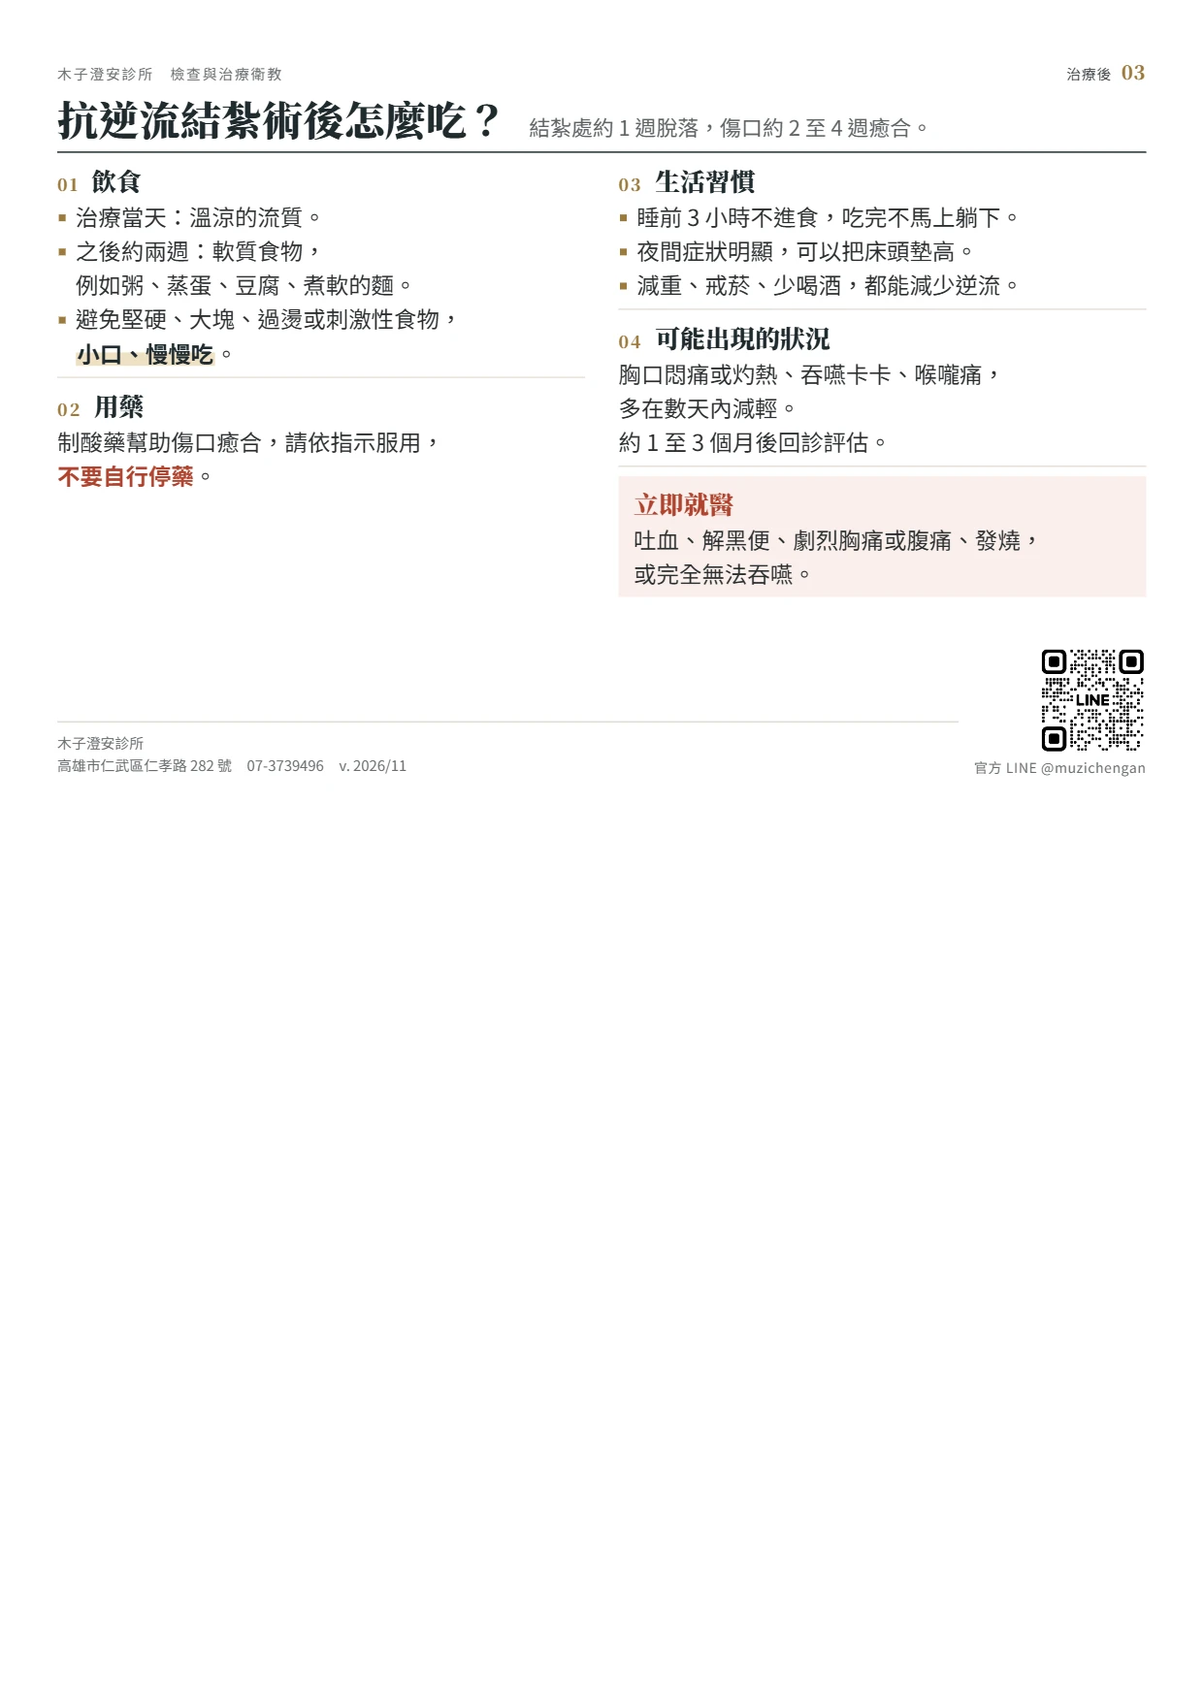
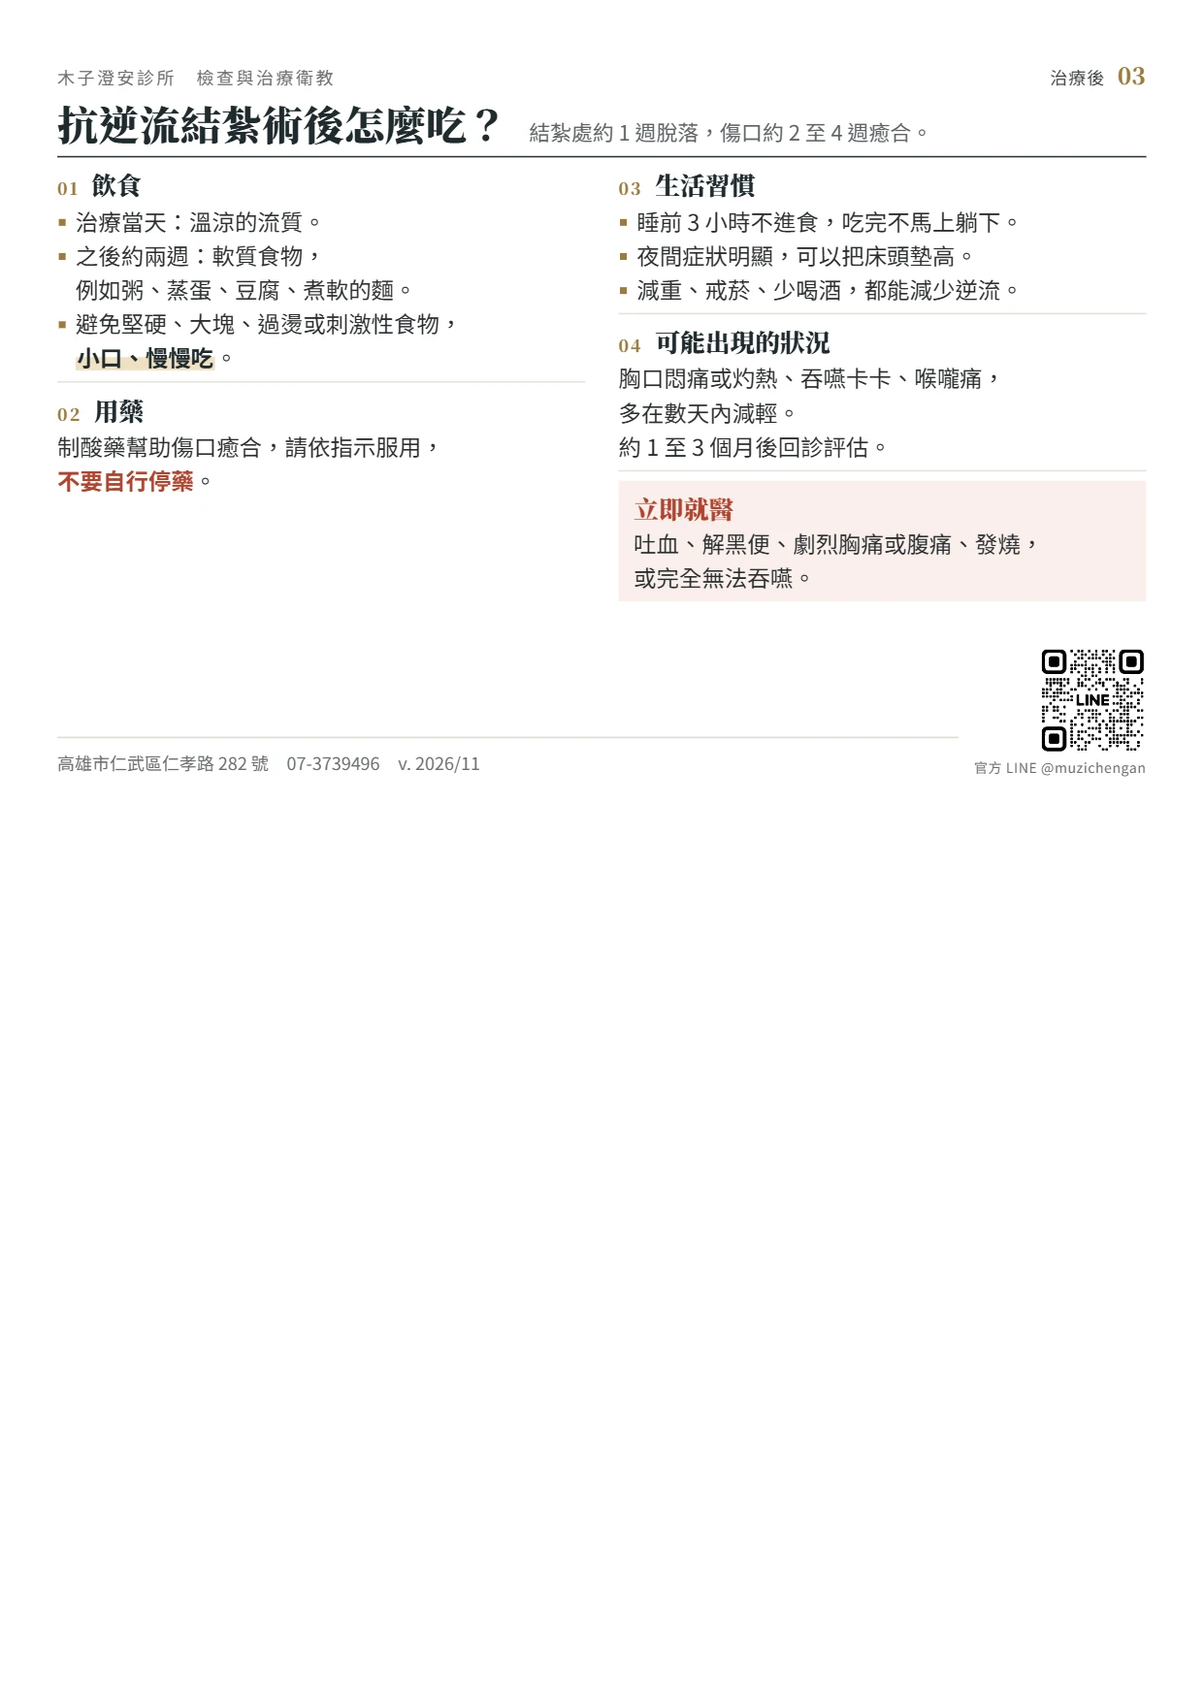
A5 衛教單：頁尾刪掉重複的診所名稱、改成一行，頁首頁尾字級和 A4 一致
- 頁首保留「木子澄安診所　○○衛教」，頁尾只寫地址、電話、版本一行
- 頁首 11.5px、編號 15px、頁尾 11.5px，和 A4 單張（cards.html）相同
- QR code 上方留白 4px 改 1px，右欄空間至少 6px
- 19 張 A5 圖片重新輸出，快取 tools-v78

diff --git a/edu-src/a5.html b/edu-src/a5.html
@@ -16,9 +16,10 @@
 *{box-sizing:border-box; margin:0; padding:0;}
 body{background:#9AA5AA; font-family:'Noto Sans TC',sans-serif; color:var(--body); text-spacing-trim:space-all;}
 .page{width:210mm; height:148.5mm; margin:20px auto; background:#fff; padding:10mm 10mm 13mm; display:flex; flex-direction:column;}
-.top{display:flex; justify-content:space-between; align-items:baseline; font-size:9.5px; letter-spacing:.12em; color:#6A6E70;}
+/* 頁首與頁尾的字級和 A4 單張（cards.html）相同：兩種版面都是 794 px 寬，同樣的 px 印出來一樣大 */
+.top{display:flex; justify-content:space-between; align-items:baseline; font-size:11.5px; letter-spacing:.14em; color:#6A6E70;}
 .top .no{letter-spacing:.06em; color:#3A3F42;}
-.top .no b{font-family:'Noto Serif TC',serif; font-weight:900; color:var(--gold); font-size:12.5px; margin-left:6px;}
+.top .no b{font-family:'Noto Serif TC',serif; font-weight:900; color:var(--gold); font-size:15px; margin-left:8px; letter-spacing:.02em;}
 .head{display:flex; align-items:baseline; gap:14px; margin-top:4px;}
 h1{font-family:'Noto Serif TC',serif; font-weight:900; font-size:27px; line-height:1.3; color:var(--ink); white-space:nowrap;}
 .lead{font-size:14px; color:var(--sub); line-height:1.5;}
@@ -50,12 +51,12 @@ table.tb td{border-bottom:1px solid var(--line); padding:3px 4px; line-height:1.
 table.tb th:last-child, table.tb td:last-child{white-space:nowrap;}
 table.tb td:last-child{font-weight:700; color:var(--ink);}
 .src{font-size:9.5px; color:#7A7E80; margin-top:4px; line-height:1.5;}
-/* 頁尾：左邊地址電話與版本，右下角官方 LINE QR code。
+/* 頁尾：左邊一行地址、電話與版本（診所名稱已在頁首，不重複），右下角官方 LINE QR code。
    QR code 疊在頁尾右側往上突出，頁尾高度只由地址決定，左欄可以多用一些高度；右欄內容不可壓到 QR code（見 fitReport） */
 .foot{margin-top:auto; border-top:1px solid #E0DCD4; padding-top:5px; position:relative;}
-.foot .addr{font-size:9.5px; color:#6A6E70; line-height:1.6;}
-.foot .addr span{margin-left:10px;}
-.qr{position:absolute; right:0; bottom:0; display:flex; flex-direction:column; align-items:flex-end; background:#fff; padding:4px 0 0 10px;}
+.foot .addr{font-size:11.5px; color:#6A6E70; line-height:1.75;}
+.foot .addr span{margin-left:12px;}
+.qr{position:absolute; right:0; bottom:0; display:flex; flex-direction:column; align-items:flex-end; background:#fff; padding:1px 0 0 10px;}
 .qr img{width:19mm; height:19mm; display:block;}
 .qr span{font-size:9px; color:#6A6E70; letter-spacing:.04em; margin-top:1px; white-space:nowrap;}
 .fit-bad{outline:3px solid #C0392B;}
@@ -96,7 +97,7 @@ table.tb td:last-child{font-weight:700; color:var(--ink);}
       <div class="box alert"><div class="t">立即就醫</div><div class="c">吐血、解黑便、劇烈腹痛或發燒，<br>請立即回診或至急診。</div></div>
     </div>
   </div>
-  <div class="foot"><div class="addr">木子澄安診所<br>高雄市仁武區仁孝路 282 號<span>07-3739496</span><span>v. 2026/11</span></div><div class="qr"><img src="../calc/qr.png" alt=""><span>官方 LINE @muzichengan</span></div></div>
+  <div class="foot"><div class="addr">高雄市仁武區仁孝路 282 號<span>07-3739496</span><span>v. 2026/11</span></div><div class="qr"><img src="../calc/qr.png" alt=""><span>官方 LINE @muzichengan</span></div></div>
 </section>
 
 <!-- ───────── 檢查前 02 大腸鏡 ───────── -->
@@ -137,7 +138,7 @@ table.tb td:last-child{font-weight:700; color:var(--ink);}
         </ul></div></div>
     </div>
   </div>
-  <div class="foot"><div class="addr">木子澄安診所<br>高雄市仁武區仁孝路 282 號<span>07-3739496</span><span>v. 2026/11</span></div><div class="qr"><img src="../calc/qr.png" alt=""><span>官方 LINE @muzichengan</span></div></div>
+  <div class="foot"><div class="addr">高雄市仁武區仁孝路 282 號<span>07-3739496</span><span>v. 2026/11</span></div><div class="qr"><img src="../calc/qr.png" alt=""><span>官方 LINE @muzichengan</span></div></div>
 </section>
 
 <!-- ───────── 檢查前 03 腹部超音波 ───────── -->
@@ -167,7 +168,7 @@ table.tb td:last-child{font-weight:700; color:var(--ink);}
         </ul></div></div>
     </div>
   </div>
-  <div class="foot"><div class="addr">木子澄安診所<br>高雄市仁武區仁孝路 282 號<span>07-3739496</span><span>v. 2026/11</span></div><div class="qr"><img src="../calc/qr.png" alt=""><span>官方 LINE @muzichengan</span></div></div>
+  <div class="foot"><div class="addr">高雄市仁武區仁孝路 282 號<span>07-3739496</span><span>v. 2026/11</span></div><div class="qr"><img src="../calc/qr.png" alt=""><span>官方 LINE @muzichengan</span></div></div>
 </section>
 
 <!-- ───────── 檢查後 01 腸胃鏡 ───────── -->
@@ -201,7 +202,7 @@ table.tb td:last-child{font-weight:700; color:var(--ink);}
       <div class="box alert"><div class="t">立即就醫</div><div class="c">吐血、解黑便或大量血便、腹痛加劇、<br>發燒、頭暈心悸，請立即回診或至急診。</div></div>
     </div>
   </div>
-  <div class="foot"><div class="addr">木子澄安診所<br>高雄市仁武區仁孝路 282 號<span>07-3739496</span><span>v. 2026/11</span></div><div class="qr"><img src="../calc/qr.png" alt=""><span>官方 LINE @muzichengan</span></div></div>
+  <div class="foot"><div class="addr">高雄市仁武區仁孝路 282 號<span>07-3739496</span><span>v. 2026/11</span></div><div class="qr"><img src="../calc/qr.png" alt=""><span>官方 LINE @muzichengan</span></div></div>
 </section>
 
 <!-- ───────── 治療後 01 瘜肉切除 ───────── -->
@@ -234,7 +235,7 @@ table.tb td:last-child{font-weight:700; color:var(--ink);}
       <p class="src">以清腸乾淨、完整切除為前提。資料來源：國健署《大腸癌篩檢指引》2021。</p>
     </div>
   </div>
-  <div class="foot"><div class="addr">木子澄安診所<br>高雄市仁武區仁孝路 282 號<span>07-3739496</span><span>v. 2026/11</span></div><div class="qr"><img src="../calc/qr.png" alt=""><span>官方 LINE @muzichengan</span></div></div>
+  <div class="foot"><div class="addr">高雄市仁武區仁孝路 282 號<span>07-3739496</span><span>v. 2026/11</span></div><div class="qr"><img src="../calc/qr.png" alt=""><span>官方 LINE @muzichengan</span></div></div>
 </section>
 
 <!-- ───────── 治療後 02 冷凝刀 ───────── -->
@@ -268,7 +269,7 @@ table.tb td:last-child{font-weight:700; color:var(--ink);}
       <div class="box alert"><div class="t">立即就醫</div><div class="c">大量出血、劇烈疼痛、發燒，或無法排尿，<br>請立即回診或至急診。</div></div>
     </div>
   </div>
-  <div class="foot"><div class="addr">木子澄安診所<br>高雄市仁武區仁孝路 282 號<span>07-3739496</span><span>v. 2026/11</span></div><div class="qr"><img src="../calc/qr.png" alt=""><span>官方 LINE @muzichengan</span></div></div>
+  <div class="foot"><div class="addr">高雄市仁武區仁孝路 282 號<span>07-3739496</span><span>v. 2026/11</span></div><div class="qr"><img src="../calc/qr.png" alt=""><span>官方 LINE @muzichengan</span></div></div>
 </section>
 
 <!-- ───────── 治療後 03 抗逆流結紮 ───────── -->
@@ -295,7 +296,7 @@ table.tb td:last-child{font-weight:700; color:var(--ink);}
       <div class="box alert"><div class="t">立即就醫</div><div class="c">吐血、解黑便、劇烈胸痛或腹痛、發燒，<br>或完全無法吞嚥。</div></div>
     </div>
   </div>
-  <div class="foot"><div class="addr">木子澄安診所<br>高雄市仁武區仁孝路 282 號<span>07-3739496</span><span>v. 2026/11</span></div><div class="qr"><img src="../calc/qr.png" alt=""><span>官方 LINE @muzichengan</span></div></div>
+  <div class="foot"><div class="addr">高雄市仁武區仁孝路 282 號<span>07-3739496</span><span>v. 2026/11</span></div><div class="qr"><img src="../calc/qr.png" alt=""><span>官方 LINE @muzichengan</span></div></div>
 </section>
 
 <!-- ───────── 用藥 01 幽門桿菌 ───────── -->
@@ -330,7 +331,7 @@ table.tb td:last-child{font-weight:700; color:var(--ink);}
       <p class="src">資料來源：Maastricht VI／Florence 共識，Gut 2022；Taipei Global Consensus，Gut 2020。</p>
     </div>
   </div>
-  <div class="foot"><div class="addr">木子澄安診所<br>高雄市仁武區仁孝路 282 號<span>07-3739496</span><span>v. 2026/11</span></div><div class="qr"><img src="../calc/qr.png" alt=""><span>官方 LINE @muzichengan</span></div></div>
+  <div class="foot"><div class="addr">高雄市仁武區仁孝路 282 號<span>07-3739496</span><span>v. 2026/11</span></div><div class="qr"><img src="../calc/qr.png" alt=""><span>官方 LINE @muzichengan</span></div></div>
 </section>
 
 <!-- ═════════ 疾病衛教（2026/11 新增）：版面與上面相同，頁首左邊改「疾病衛教」 ═════════ -->
@@ -361,7 +362,7 @@ table.tb td:last-child{font-weight:700; color:var(--ink);}
       <div class="box alert"><div class="t">立即就醫</div><div class="c">腹痛超過 6 小時、發燒畏寒、<br>皮膚或眼白變黃、茶色尿、灰白便。</div></div>
     </div>
   </div>
-  <div class="foot"><div class="addr">木子澄安診所<br>高雄市仁武區仁孝路 282 號<span>07-3739496</span><span>v. 2026/11</span></div><div class="qr"><img src="../calc/qr.png" alt=""><span>官方 LINE @muzichengan</span></div></div>
+  <div class="foot"><div class="addr">高雄市仁武區仁孝路 282 號<span>07-3739496</span><span>v. 2026/11</span></div><div class="qr"><img src="../calc/qr.png" alt=""><span>官方 LINE @muzichengan</span></div></div>
 </section>
 
 <!-- ───────── 肝膽 02 膽囊瘜肉 ───────── -->
@@ -395,7 +396,7 @@ table.tb td:last-child{font-weight:700; color:var(--ink);}
       <div class="box"><div class="t">追蹤怎麼做</div><div class="c">6 個月、1 年、2 年各做一次超音波；<br>長到 10 mm 建議手術，2 年沒變化可停止。</div></div>
     </div>
   </div>
-  <div class="foot"><div class="addr">木子澄安診所<br>高雄市仁武區仁孝路 282 號<span>07-3739496</span><span>v. 2026/11</span></div><div class="qr"><img src="../calc/qr.png" alt=""><span>官方 LINE @muzichengan</span></div></div>
+  <div class="foot"><div class="addr">高雄市仁武區仁孝路 282 號<span>07-3739496</span><span>v. 2026/11</span></div><div class="qr"><img src="../calc/qr.png" alt=""><span>官方 LINE @muzichengan</span></div></div>
 </section>
 
 <!-- ───────── 肝膽 03 脂肪肝 ───────── -->
@@ -426,7 +427,7 @@ table.tb td:last-child{font-weight:700; color:var(--ink);}
       <p class="src">資料來源：EASL、EASD、EASO MASLD 臨床指引，J Hepatol 2024。</p>
     </div>
   </div>
-  <div class="foot"><div class="addr">木子澄安診所<br>高雄市仁武區仁孝路 282 號<span>07-3739496</span><span>v. 2026/11</span></div><div class="qr"><img src="../calc/qr.png" alt=""><span>官方 LINE @muzichengan</span></div></div>
+  <div class="foot"><div class="addr">高雄市仁武區仁孝路 282 號<span>07-3739496</span><span>v. 2026/11</span></div><div class="qr"><img src="../calc/qr.png" alt=""><span>官方 LINE @muzichengan</span></div></div>
 </section>
 
 <!-- ───────── 腸胃 01 胃食道逆流 ───────── -->
@@ -458,7 +459,7 @@ table.tb td:last-child{font-weight:700; color:var(--ink);}
       <div class="box alert"><div class="t">立即就醫</div><div class="c">吐血、解黑便；<br>胸痛合併冒冷汗或喘，先排除心臟問題。</div></div>
     </div>
   </div>
-  <div class="foot"><div class="addr">木子澄安診所<br>高雄市仁武區仁孝路 282 號<span>07-3739496</span><span>v. 2026/11</span></div><div class="qr"><img src="../calc/qr.png" alt=""><span>官方 LINE @muzichengan</span></div></div>
+  <div class="foot"><div class="addr">高雄市仁武區仁孝路 282 號<span>07-3739496</span><span>v. 2026/11</span></div><div class="qr"><img src="../calc/qr.png" alt=""><span>官方 LINE @muzichengan</span></div></div>
 </section>
 
 <!-- ───────── 腸胃 02 急性腸胃炎 ───────── -->
@@ -490,7 +491,7 @@ table.tb td:last-child{font-weight:700; color:var(--ink);}
       <p class="src">資料來源：衛生福利部疾病管制署諾羅病毒防治。</p>
     </div>
   </div>
-  <div class="foot"><div class="addr">木子澄安診所<br>高雄市仁武區仁孝路 282 號<span>07-3739496</span><span>v. 2026/11</span></div><div class="qr"><img src="../calc/qr.png" alt=""><span>官方 LINE @muzichengan</span></div></div>
+  <div class="foot"><div class="addr">高雄市仁武區仁孝路 282 號<span>07-3739496</span><span>v. 2026/11</span></div><div class="qr"><img src="../calc/qr.png" alt=""><span>官方 LINE @muzichengan</span></div></div>
 </section>
 
 <!-- ───────── 腸胃 03 痔瘡 ───────── -->
@@ -523,7 +524,7 @@ table.tb td:last-child{font-weight:700; color:var(--ink);}
       <div class="box alert"><div class="t">立即就醫</div><div class="c">大量出血或頭暈；<br>肛門腫硬劇痛、發燒。</div></div>
     </div>
   </div>
-  <div class="foot"><div class="addr">木子澄安診所<br>高雄市仁武區仁孝路 282 號<span>07-3739496</span><span>v. 2026/11</span></div><div class="qr"><img src="../calc/qr.png" alt=""><span>官方 LINE @muzichengan</span></div></div>
+  <div class="foot"><div class="addr">高雄市仁武區仁孝路 282 號<span>07-3739496</span><span>v. 2026/11</span></div><div class="qr"><img src="../calc/qr.png" alt=""><span>官方 LINE @muzichengan</span></div></div>
 </section>
 
 <!-- ───────── 腎臟 01 腎結石 ───────── -->
@@ -557,7 +558,7 @@ table.tb td:last-child{font-weight:700; color:var(--ink);}
       <p class="src">資料來源：EAU 尿路結石指引 2024。</p>
     </div>
   </div>
-  <div class="foot"><div class="addr">木子澄安診所<br>高雄市仁武區仁孝路 282 號<span>07-3739496</span><span>v. 2026/11</span></div><div class="qr"><img src="../calc/qr.png" alt=""><span>官方 LINE @muzichengan</span></div></div>
+  <div class="foot"><div class="addr">高雄市仁武區仁孝路 282 號<span>07-3739496</span><span>v. 2026/11</span></div><div class="qr"><img src="../calc/qr.png" alt=""><span>官方 LINE @muzichengan</span></div></div>
 </section>
 
 <!-- ───────── 腎臟 02 腎水腫 ───────── -->
@@ -589,7 +590,7 @@ table.tb td:last-child{font-weight:700; color:var(--ink);}
       <div class="box alert"><div class="t">立即就醫</div><div class="c">發燒畏寒、腰痛加劇、<br>尿量明顯減少或解不出尿。</div></div>
     </div>
   </div>
-  <div class="foot"><div class="addr">木子澄安診所<br>高雄市仁武區仁孝路 282 號<span>07-3739496</span><span>v. 2026/11</span></div><div class="qr"><img src="../calc/qr.png" alt=""><span>官方 LINE @muzichengan</span></div></div>
+  <div class="foot"><div class="addr">高雄市仁武區仁孝路 282 號<span>07-3739496</span><span>v. 2026/11</span></div><div class="qr"><img src="../calc/qr.png" alt=""><span>官方 LINE @muzichengan</span></div></div>
 </section>
 
 <!-- ───────── 慢性病 01 高血壓 ───────── -->
@@ -623,7 +624,7 @@ table.tb td:last-child{font-weight:700; color:var(--ink);}
       <div class="box alert"><div class="t">立即就醫</div><div class="c">血壓 180/120 以上，合併胸痛、喘、<br>劇烈頭痛、單側無力或說話不清。</div></div>
     </div>
   </div>
-  <div class="foot"><div class="addr">木子澄安診所<br>高雄市仁武區仁孝路 282 號<span>07-3739496</span><span>v. 2026/11</span></div><div class="qr"><img src="../calc/qr.png" alt=""><span>官方 LINE @muzichengan</span></div></div>
+  <div class="foot"><div class="addr">高雄市仁武區仁孝路 282 號<span>07-3739496</span><span>v. 2026/11</span></div><div class="qr"><img src="../calc/qr.png" alt=""><span>官方 LINE @muzichengan</span></div></div>
 </section>
 
 <!-- ───────── 慢性病 02 糖尿病前期與糖尿病 ───────── -->
@@ -660,7 +661,7 @@ table.tb td:last-child{font-weight:700; color:var(--ink);}
       <div class="box alert"><div class="t">立即就醫</div><div class="c">意識不清、血糖持續 300 以上，<br>或口渴多尿合併嘔吐、呼吸急促。</div></div>
     </div>
   </div>
-  <div class="foot"><div class="addr">木子澄安診所<br>高雄市仁武區仁孝路 282 號<span>07-3739496</span><span>v. 2026/11</span></div><div class="qr"><img src="../calc/qr.png" alt=""><span>官方 LINE @muzichengan</span></div></div>
+  <div class="foot"><div class="addr">高雄市仁武區仁孝路 282 號<span>07-3739496</span><span>v. 2026/11</span></div><div class="qr"><img src="../calc/qr.png" alt=""><span>官方 LINE @muzichengan</span></div></div>
 </section>
 
 <!-- ───────── 慢性病 03 血脂 ───────── -->
@@ -695,7 +696,7 @@ table.tb td:last-child{font-weight:700; color:var(--ink);}
       <div class="box alert"><div class="t">立即就醫</div><div class="c">上腹劇痛延伸到背部，合併嘔吐。</div></div>
     </div>
   </div>
-  <div class="foot"><div class="addr">木子澄安診所<br>高雄市仁武區仁孝路 282 號<span>07-3739496</span><span>v. 2026/11</span></div><div class="qr"><img src="../calc/qr.png" alt=""><span>官方 LINE @muzichengan</span></div></div>
+  <div class="foot"><div class="addr">高雄市仁武區仁孝路 282 號<span>07-3739496</span><span>v. 2026/11</span></div><div class="qr"><img src="../calc/qr.png" alt=""><span>官方 LINE @muzichengan</span></div></div>
 </section>
 
 <script>

diff --git a/revision.js b/revision.js
@@ -12,6 +12,5 @@ const REVISION = {
 /* 工作台左下角只顯示最新的一個日期（上面五個取最晚的），點一下會跳出這次改了什麼。
    每次改版就把這裡整份換成「當次」的簡短說明，一行一件事；不要把前幾次的說明留著累加。 */
 const REVISION_NOTE = [
-  "管藥與麻醉：新增「用藥指引」A4 兩頁（輕中度鎮靜：劑型配製、給藥順序、追加量、停藥與拮抗劑、離院）",
-  "衛教與表單：多頁的 A4 衛教改成和同意書一樣，所有頁面一起顯示、直接捲動，不必再點「第 2 頁」"
+  "A5 衛教單：頁尾刪掉重複的診所名稱，地址、電話、版本改成一行；頁首與頁尾字級改成和 A4 單張一樣"
 ];

diff --git a/sw.js b/sw.js
@@ -9,7 +9,7 @@
    工作台開啟後會把所有衛教與表單圖片預先存下，斷網時也能顯示與列印。
    網路很慢（伺服器 3 秒內沒回應，圖片 6 秒）時先用快取開啟，背景照樣把新版存下，下次開啟就是新版；
    以前會一直等到連線逾時，網路卡住時整個工作台白畫面。 */
-const CACHE = 'tools-v77';
+const CACHE = 'tools-v78';
 const CORE = [
   './', 'index.html',
   'mount.js', 'revision.js',

diff --git a/edu-src/README.md b/edu-src/README.md
@@ -27,7 +27,7 @@
 
 ## 規則
 
-- A4 直式（A5 版為 A4 上半部，安全邊界上左右 10 mm、下 13 mm，名詞不可因換行切斷，必要時用 `<br>` 或 `<span class="nw">`）；頁首左邊「木子澄安診所　○○衛教」，右邊系列與編號（例如「治療後 01」），側欄依這個編號排序。
+- A4 直式（A5 版為 A4 上半部，安全邊界上左右 10 mm、下 13 mm，名詞不可因換行切斷，必要時用 `<br>` 或 `<span class="nw">`）；頁首左邊「木子澄安診所　○○衛教」，右邊系列與編號（例如「治療後 01」），側欄依這個編號排序。A5 頁尾只寫一行地址、電話、版本（診所名稱已在頁首）；頁首、頁尾字級和 A4 相同（11.5px，編號 15px）。
 - 頁尾版本標示 `v. 年/月`，改內容時一起改。
 - **右下角（以後新做的也一樣）**：A5 衛教單只放官方 LINE QR code；A4 單張只放診所 LOGO（`img/logo-mark.png`），不放文字，位置固定為 1241 × 1755 像素的右緣 x 1118、上緣 y 1648、高 66 px（`cards.html` 的 `.mark`、`patch.html` 的 `MARK`）。
 - 新的 A5 衛教單一律做在 `a5.html`，複製現有一張的結構改內容，`fitReport()` 每欄都要 4 以上。
